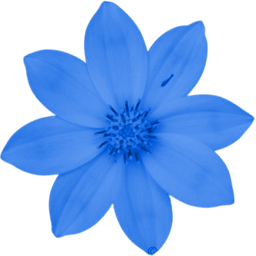
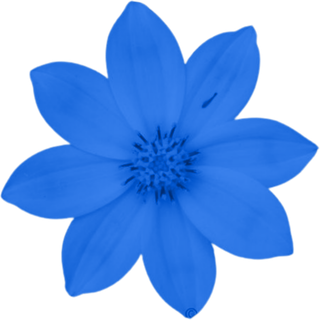
feat: grow the closing field out of the page, on the new illustration pack
The meadow was a rectangle of photograph pasted across the bottom with a ruled
top edge, which is exactly what made it read as cut off rather than as ground
the page stands on. It is now a cut-out field: heads and stems break raggedly
into the open green above them, so the flowers grow up out of the page.

The band is assembled wide from one tall source by flipping and rescaling seven
copies, all anchored to the bottom so the ground line stays solid. The source's
huge out-of-focus foreground blooms are cropped off first: those are single
smooth shapes, and a tile boundary cutting through one leaves a seam you cannot
miss, which the first attempt did every 430px.

Also from the pack: the woman now stands in that field, placed behind the band
so the front row of flowers crosses her skirt, and sized to clear the footer
copy rather than painting over the social links. A drift of small blue flowers
sits behind the services list, and the close-up cluster thrown out of focus
replaces the stock bokeh behind the presenter, so that backdrop is the same
flower as everything else on the page.

The falling petal is re-cut from the pack's cleaner single bloom, and its blue
twin's ramp no longer runs to near-white: at the petals' resting opacity those
highlights read as grey snowflakes rather than as the brand colour.

npm run art rebuilds all of it from the two source folders.

diff --git a/app/components/Closing.tsx b/app/components/Closing.tsx
@@ -3,10 +3,13 @@ import { Reveal } from './Reveal';
 import { ZemenayLogo } from './ZemenayLogo';
 
 /**
- * Where to find us. The adey abeba meadow sits behind this section as a blue
- * duotone: a straight photograph of yellow flowers would fight the page, but
- * pushed through the brand blues it reads as the field the falling petals came
- * from.
+ * Where to find us, standing in the adey abeba.
+ *
+ * The page has spent its whole length warming from navy toward green, and this
+ * is where it arrives: a cut-out field growing up off the bottom edge, with the
+ * flowers left their own yellow. Earlier drafts pushed the meadow through the
+ * brand blues to stop it fighting the page, but by the time you reach it the
+ * background has already met it halfway, so the photograph can be itself.
  */
 
 const CONTACT = [
@@ -15,18 +18,18 @@ const CONTACT = [
   { label: 'Where', value: 'Bole, Addis Ababa, Ethiopia' },
 ];
 
-// Where each landed flower sits on the meadow band, as
+// Where each landed flower comes to rest, as
 // [left %, top %, size px, rotation, seconds after the band is first seen].
 // The delays run out to half a minute so the field fills in while you read the
 // contact details rather than arriving all at once.
 const SETTLED: [number, number, number, number, number][] = [
-  [8, 30, 30, -18, 0.6],
-  [24, 16, 22, 24, 4],
-  [41, 38, 34, -8, 9],
-  [58, 20, 26, 15, 14],
-  [72, 44, 20, -25, 19],
-  [88, 26, 30, 10, 25],
-  [33, 58, 24, -32, 31],
+  [7, 14, 26, -18, 0.6],
+  [22, 4, 20, 24, 4],
+  [39, 22, 30, -8, 9],
+  [54, 9, 24, 15, 14],
+  [67, 27, 18, -25, 19],
+  [82, 12, 26, 10, 25],
+  [30, 34, 22, -32, 31],
 ];
 
 const SOCIAL = [
@@ -105,45 +108,69 @@ export function Closing() {
         </Reveal>
       </div>
 
-      {/* The adey abeba field closes the page off, in its own colours. It is a
-          block in the flow rather than a backdrop behind the text: at full
-          strength the photograph is far too bright to read white type over,
-          and dimming it enough to fix that would have thrown away the reason
-          for using it. Its top edge is already faded to transparent in the
-          asset itself, so it grows out of the blue rather than butting
-          against it. */}
+      {/* The adey abeba field closes the page off. The band is a cut-out, not a
+          rectangle of photograph: heads and stems break raggedly into the green
+          above them, so the field grows out of the page instead of being a
+          picture pasted across the bottom with a ruled edge.
+          It was assembled wide from one tall source by flipping and rescaling
+          copies, and the source's huge out-of-focus foreground blooms were
+          cropped off first, because a tile boundary cutting through one of
+          those smooth shapes leaves a seam you cannot miss. */}
       <Reveal>
-        <div
-          aria-hidden
-          className="relative h-[clamp(9rem,24vw,17rem)] w-full bg-cover bg-bottom"
-          style={{ backgroundImage: 'url(/art/meadow.png)' }}
-        >
-          {/* Flowers coming to rest. Everything above has petals falling past
-              the bottom of the screen forever; here they finally land, one at a
-              time over the half-minute or so someone spends at the foot of the
-              page, so the motif closes instead of looping. */}
-          {SETTLED.map(([left, top, size, rot, delay], i) => (
-            <span
-              key={i}
-              className="settle-petal absolute"
-              style={{
-                left: `${left}%`,
-                top: `${top}%`,
-                width: size,
-                height: size,
-                ['--settle-rot' as string]: `${rot}deg`,
-                ['--settle-delay' as string]: `${delay}s`,
-              }}
-            >
-              <Image
-                src="/art/adey.png"
-                alt=""
-                width={256}
-                height={256}
-                className="h-full w-full drop-shadow-[0_4px_10px_rgba(0,0,0,0.35)]"
-              />
-            </span>
-          ))}
+        <div aria-hidden className="relative">
+          {/* She stands behind the band so the front row of flowers crosses her
+              skirt, which is what puts her in the field rather than in front of
+              a picture of one. Hidden on narrow screens, where she would sit on
+              top of the copy rather than beside it. */}
+          <Image
+            src="/art/woman.webp"
+            alt=""
+            width={660}
+            height={1150}
+            // Sized to rise only a little above the field. Taller and she
+            // reaches into the footer copy, where she painted straight over the
+            // social links.
+            className="pointer-events-none absolute right-[4%] bottom-[2rem] z-0 hidden h-[clamp(11rem,21vw,17rem)] w-auto md:block"
+          />
+
+          <div className="relative z-10 h-[clamp(8rem,20vw,15rem)] w-full">
+            <Image
+              src="/art/meadow-grow.webp"
+              alt=""
+              fill
+              sizes="100vw"
+              className="object-cover object-bottom"
+            />
+
+            {/* Flowers coming to rest. Everything above has petals falling past
+                the bottom of the screen forever; here they finally land, one at
+                a time over the half-minute or so someone spends at the foot of
+                the page, so the motif closes instead of looping. They sit in
+                the open green above the field, where a new arrival reads as
+                landing rather than as a sprite dropped on a photograph. */}
+            {SETTLED.map(([left, top, size, rot, delay], i) => (
+              <span
+                key={i}
+                className="settle-petal absolute"
+                style={{
+                  left: `${left}%`,
+                  top: `${top}%`,
+                  width: size,
+                  height: size,
+                  ['--settle-rot' as string]: `${rot}deg`,
+                  ['--settle-delay' as string]: `${delay}s`,
+                }}
+              >
+                <Image
+                  src="/art/adey.png"
+                  alt=""
+                  width={320}
+                  height={320}
+                  className="h-full w-full drop-shadow-[0_4px_10px_rgba(0,0,0,0.35)]"
+                />
+              </span>
+            ))}
+          </div>
         </div>
       </Reveal>
     </footer>

diff --git a/app/components/Services.tsx b/app/components/Services.tsx
@@ -1,3 +1,4 @@
+import Image from 'next/image';
 import { SERVICES } from '../data/services';
 import { Reveal } from './Reveal';
 
@@ -12,6 +13,19 @@ import { Reveal } from './Reveal';
 export function Services() {
   return (
     <section id="services" className="relative z-10 pt-[clamp(3rem,10vh,6rem)]">
+      {/* A drift of small blue flowers behind the list. It is the same trick the
+          falling petals play, held still: adey abeba in Zemenay blue. Kept very
+          faint and masked to nothing at the edges, so it reads as texture in the
+          background rather than as a picture competing with the type. */}
+      <Image
+        src="/art/blue-drift.webp"
+        alt=""
+        aria-hidden
+        width={1400}
+        height={984}
+        className="pointer-events-none absolute -top-8 right-0 -z-10 w-[min(46rem,80%)] opacity-[0.18] [mask-image:radial-gradient(60%_60%_at_65%_40%,#000_0%,transparent_75%)]"
+      />
+
       <div className="shell">
         <Reveal className="max-w-2xl">
           <p className="overline">What we do</p>

diff --git a/app/components/Presenter.tsx b/app/components/Presenter.tsx
@@ -58,13 +58,15 @@ export function Presenter() {
 
   return (
     <section id="video" className="relative z-10 py-[clamp(4rem,12vh,8rem)]">
-      {/* Blurred bloom behind the presenter, so a cutout figure has something
-          with depth to stand against instead of flat colour. */}
+      {/* The adey abeba thrown out of focus, so a cutout figure has something with
+          depth to stand against instead of flat colour. Same flower as the
+          falling petals and the closing field, just far enough out of focus to
+          read as light rather than as subject. */}
       <div
         aria-hidden
         className="pointer-events-none absolute inset-x-0 top-1/2 -z-10 h-[34rem] -translate-y-1/2 opacity-30 [mask-image:radial-gradient(52%_52%_at_50%_50%,#000_0%,transparent_78%)]"
         style={{
-          backgroundImage: 'url(/art/bokeh.jpg)',
+          backgroundImage: 'url(/art/bloom-blur.webp)',
           backgroundSize: 'cover',
           backgroundPosition: 'center',
         }}

diff --git a/README.md b/README.md
@@ -59,21 +59,29 @@ weight.
 
 ## The artwork
 
-`public/art/` is generated, not hand-made. `npm run art` rebuilds it from the
-source photographs in `D:/site_pics` (override with `ART_SRC`):
+`public/art/` is generated, not hand-made. `npm run art` rebuilds every file in
+it from two source folders: the announcement graphic in `D:/site_pics`
+(override with `ART_SRC`) and the illustration pack in
+`D:/Telegram Desktop/Adeweb Developer Africa` (override with `ART_PACK`).
 
 - **`fist-left.png` / `fist-right.png`** are cut out of the announcement graphic
   by flood-filling the charcoal background inward from the border, then split on
   the seam where the two fists meet. Butting them edge to edge rebuilds the
   original drawing, which is how the hero assembles.
 - **`adey.png` / `adey-blue.png`** are the falling flower in its own yellow and
-  in Zemenay blue. The page cross-fades between the two rather than running a
-  CSS `hue-rotate`, which drags a saturated yellow through green on the way out
-  and overshoots into violet on the way in.
-- **`meadow.png`** is the adey abeba field in its own colours, faded to nothing
-  along its top edge so it grows out of the blue.
-- **`bokeh.jpg`** is the macro bloom thrown out of focus, sitting behind the
-  presenter video.
+  in Zemenay blue. The page hard-cuts between the two behind a white flash
+  rather than running a CSS `hue-rotate`, which drags a saturated yellow through
+  green on the way out and overshoots into violet on the way in.
+- **`meadow-grow.webp`** is the field at the foot of the page, assembled wide
+  from one tall cut-out by flipping and rescaling copies. Its ragged top edge is
+  the whole point: stems and heads break into the open green so the field grows
+  out of the page rather than being a rectangle of photograph pasted across the
+  bottom.
+- **`woman.webp`** stands in that field, behind the band so the front row of
+  flowers crosses her skirt.
+- **`blue-drift.webp`** is the drift of small blue flowers behind the services
+  list, and **`bloom-blur.webp`** is the close-up cluster thrown out of focus
+  behind the presenter video.
 
 ## Brand
 
@@ -87,5 +95,8 @@ ground. Tokens live at the top of `app/globals.css`.
 
 Every entrance is CSS keyframes over server-rendered markup, so the opening
 plays on the first painted frame with no hydration wait and no animation
-library. Under `prefers-reduced-motion` the entrances resolve to their end state
-and the petal layer is removed entirely.
+library. Under `prefers-reduced-motion` the scroll reveals resolve to their end
+state, the petal layer slows to a drift and stops spinning, and the hover lifts
+come off. The opening itself still plays: on this page the fist bump is the
+content, not decoration around it, and Windows reports that preference for
+anyone who has simply switched animation effects off.
